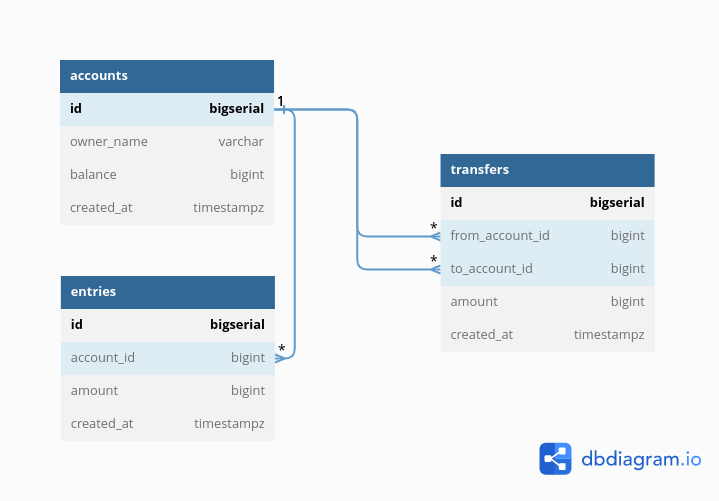
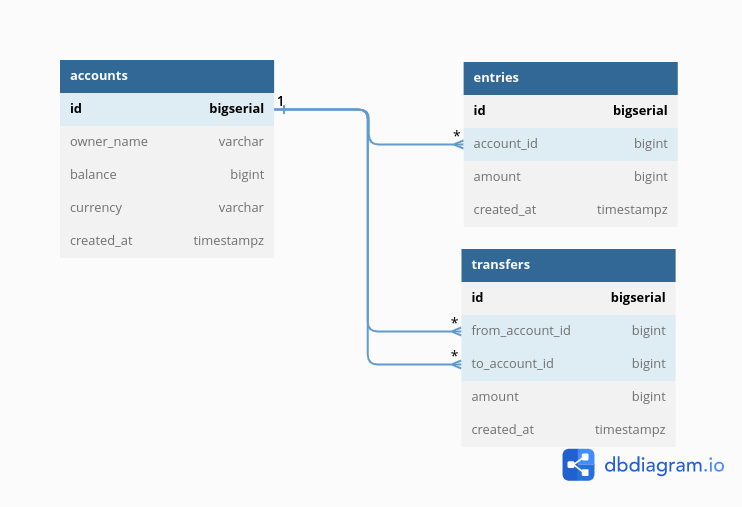
Todo has been updated!
- changed the sql code : added currency to the accounts table.
- using golang-migrate to hangle db migrations.
- used sqlc to generte go code to handle database CRUD operations from
  sql.
- Added a makefile to automatically run docker and other process.

diff --git a/resources/postgres.md b/resources/postgres.md
@@ -56,3 +56,12 @@ correspond to the names of the sub-packages underneath the
 1. Similarly to the database build tags, if you need to support other sources, use the appropriate build tag(s).
 1. Support for build constraints will be removed in the future: https://github.com/golang-migrate/migrate/issues/60
 1. For versions of Go 1.15 and lower, [make sure](https://github.com/golang-migrate/migrate/pull/257#issuecomment-705249902) you're not installing the `migrate` CLI from a module. e.g. there should not be any `go.mod` files in your current directory or any directory from your current directory to the root
+
+## ORMS
+while using something like GORM is really helpful, it has some drawbacks like performance on high load and learning to use the functions GORM have is a must, SQLC, on the other side, is very fast and easy to use and it has automatic code generation for queries written in SQL unfortunately it only supports few DBs (MySQL, PostgreSQL, SQLite).
+
+### Getting started
+
+- [Download SQLC](https://sqlc.dev/)
+
+Running `sqlc init` to create a config file `sqlc.yaml`
